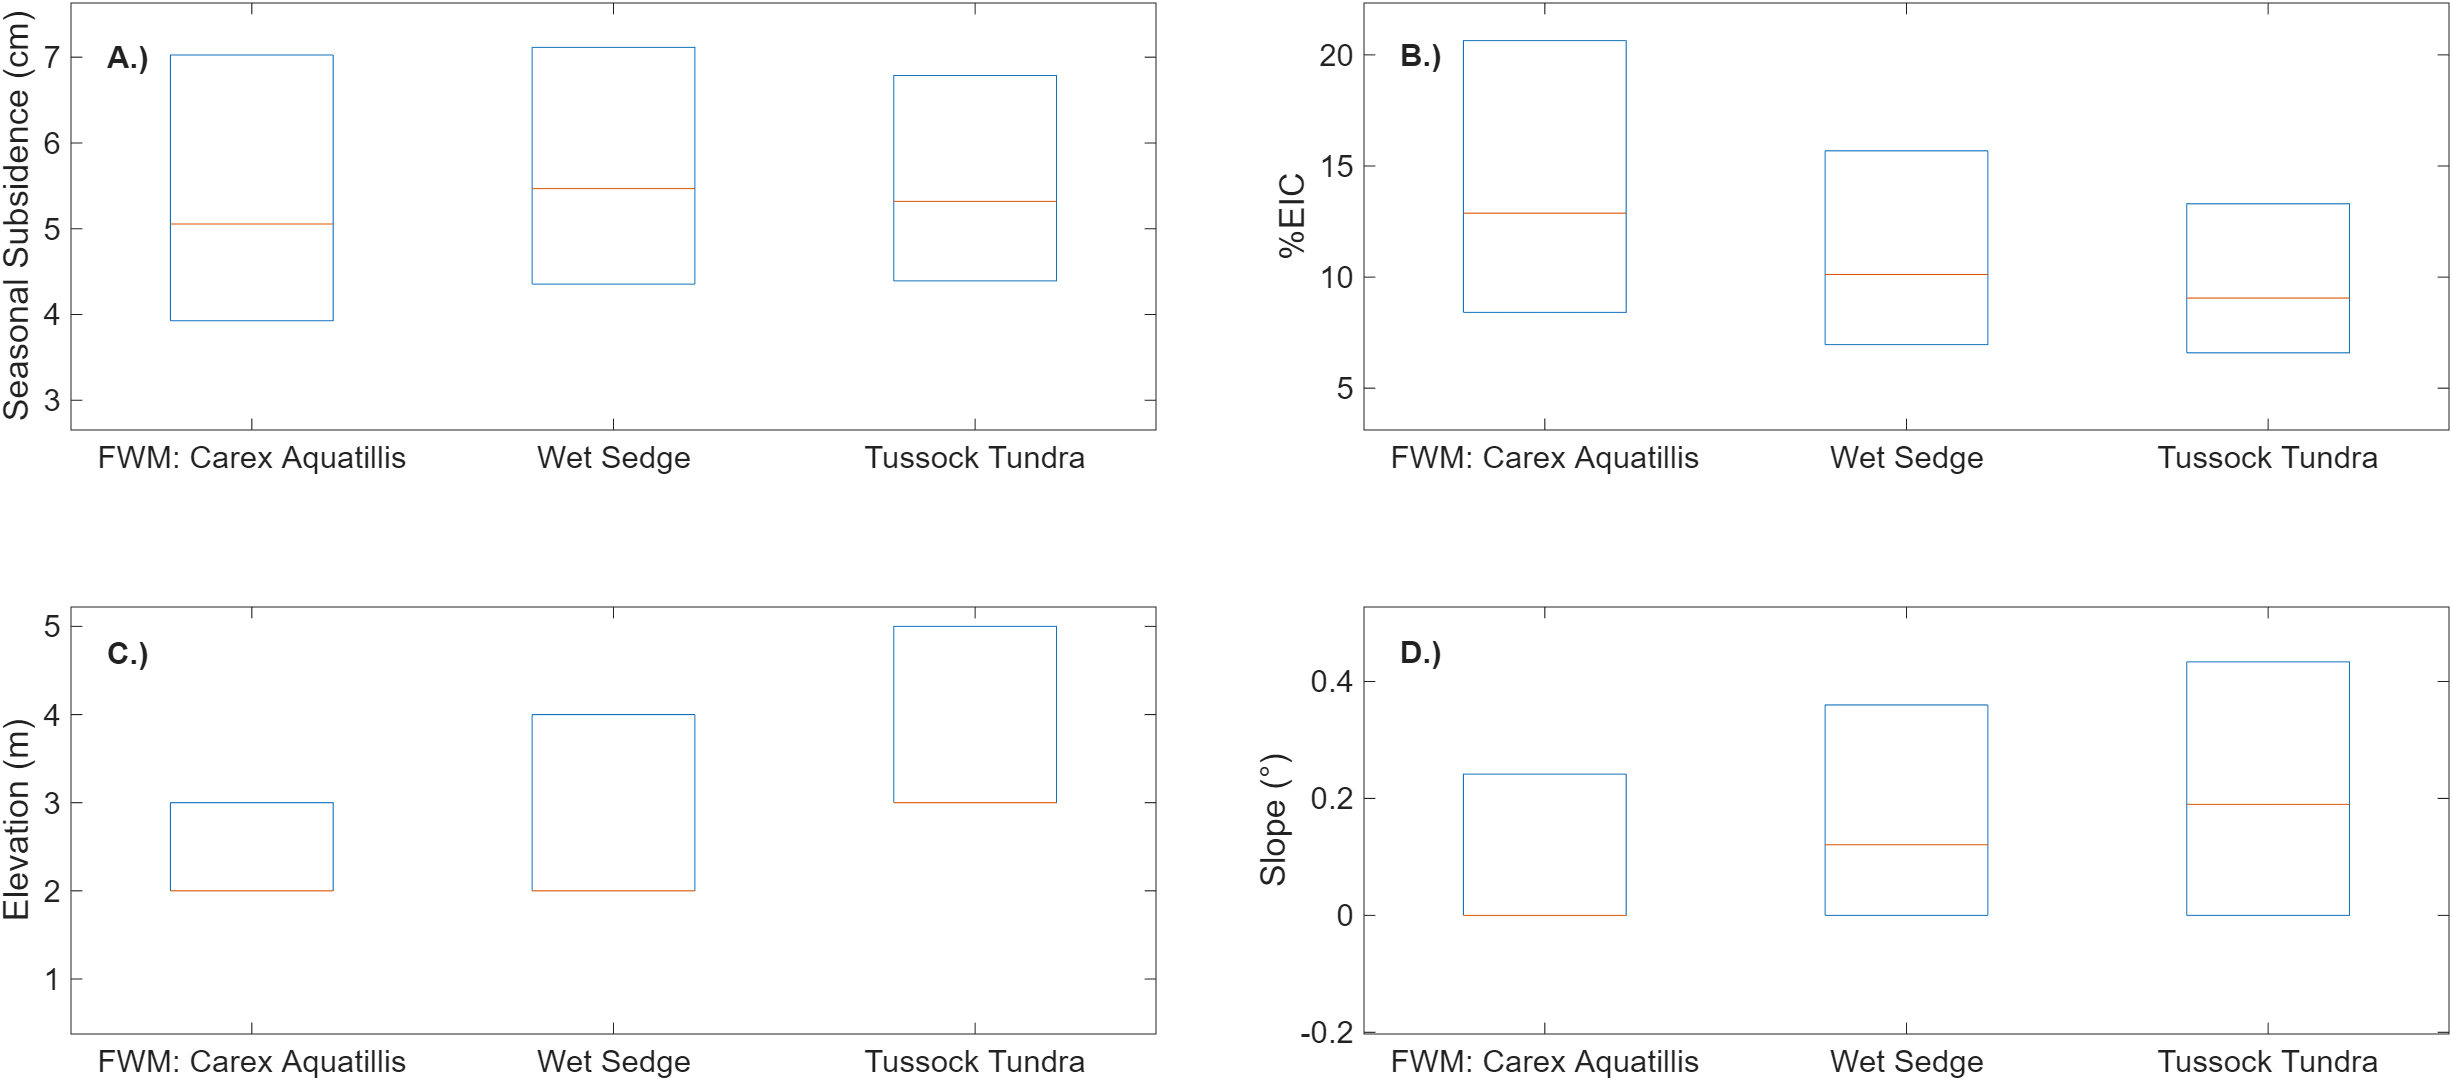
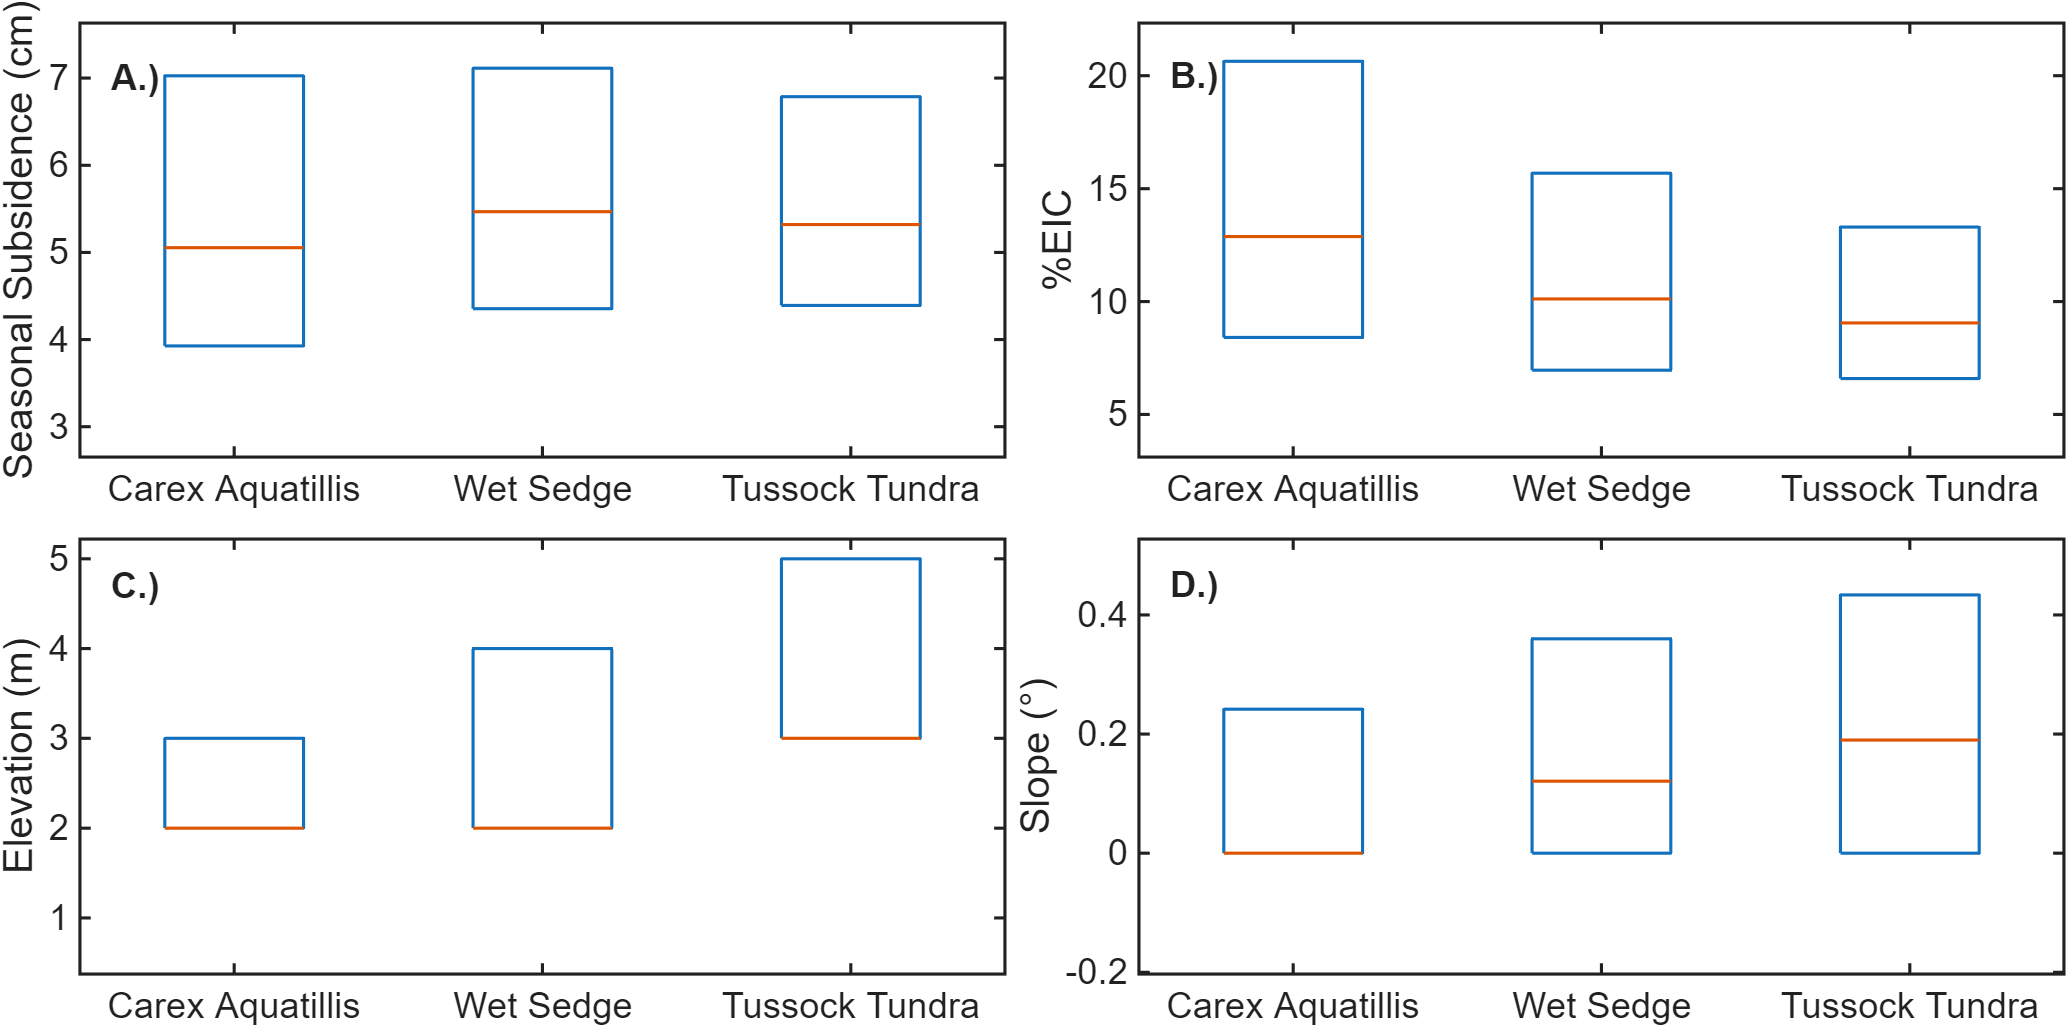
Update LandCover figure
Increase font size, boxplot linewidth, and axes linewidth.

diff --git a/main_processing/summary_results/zonal_stats.m b/main_processing/summary_results/zonal_stats.m
@@ -24,21 +24,21 @@ EIC_data = EIC_data(:, [1 2 2 3 4 4 5]);
 DEM_data = DEM_data(:, [1 2 2 3 4 4 5]);
 slope_data = slope_data(:, [1 2 2 3 4 4 5]);
 
-labels = {'FWM: Carex Aquatillis', 'Wet Sedge', 'Tussock Tundra'}';
+labels = {'Carex Aquatillis', 'Wet Sedge', 'Tussock Tundra'}';
 
 %%
 
 boxfig = figure;
-tiledlayout(2,2)
+tiledlayout(2,2,"TileSpacing","tight")
 nexttile
 boxplot(E_data.', 'Whisker', inf);
 xticks(1:numel(labels))
 xticklabels(labels)
 ylabel('Seasonal Subsidence (cm)')
 ax = gca;
-ax.FontSize = 15;
+ax.FontSize = 17.5;
 ylim([0, 25])
-text(0.6, 23, 'A.)','FontSize',15,'FontWeight','bold')
+text(0.6, 23, 'A.)','FontSize',17.5,'FontWeight','bold')
 
 nexttile
 boxplot(EIC_data.', 'Whisker', inf);
@@ -46,9 +46,9 @@ xticks(1:numel(labels))
 xticklabels(labels)
 ylabel('%EIC')
 ax = gca;
-ax.FontSize = 15;
+ax.FontSize = 17.5;
 ylim([0, 130])
-text(0.6, 120, 'B.)','FontSize',15,'FontWeight','bold')
+text(0.6, 120, 'B.)','FontSize',17.5,'FontWeight','bold')
 
 nexttile
 boxplot(DEM_data.', 'Whisker', inf);
@@ -56,9 +56,9 @@ xticks(1:numel(labels))
 xticklabels(labels)
 ylabel('Elevation (m)')
 ax = gca;
-ax.FontSize = 15;
+ax.FontSize = 17.5;
 ylim([0, 15])
-text(0.6, 14, 'C.)','FontSize',15,'FontWeight','bold')
+text(0.6, 14, 'C.)','FontSize',17.5,'FontWeight','bold')
 
 nexttile
 boxplot(slope_data.', 'Whisker', inf);
@@ -66,8 +66,8 @@ xticks(1:numel(labels))
 xticklabels(labels)
 ylabel(['Slope (',char(176),')'])
 ax = gca;
-ax.FontSize = 15;
-text(0.6, 6.5, 'D.)','FontSize',15,'FontWeight','bold')
+ax.FontSize = 17.5;
+text(0.6, 6.5, 'D.)','FontSize',17.5,'FontWeight','bold')
 
 %%
 
@@ -93,15 +93,19 @@ DEM_data = DEM_data(:, [1 1 2 3 3 ]);
 slope_data = slope_data(:, [1 1 2 3 3 ]);
 
 boxfig2 = figure;
-tiledlayout(2,2)
+tiledlayout(2,2,'TileSpacing','compact')
 nexttile
 boxplot(E_data.', 'Whisker', 0);
 xticks(1:numel(labels))
 xticklabels(labels)
 ylabel('Seasonal Subsidence (cm)')
 ax = gca;
-ax.FontSize = 15;
-text(0.6, 7, 'A.)','FontSize',15,'FontWeight','bold')
+ax.FontSize = 17.5;
+ax.LineWidth = 1.5;
+text(0.6, 7, 'A.)','FontSize',17.5,'FontWeight','bold')
+
+bx1 = findobj(gca,'Tag','boxplot');
+set(bx1.Children,'LineWidth',1.5)
 
 nexttile
 boxplot(EIC_data.', 'Whisker', 0);
@@ -109,8 +113,12 @@ xticks(1:numel(labels))
 xticklabels(labels)
 ylabel('%EIC')
 ax = gca;
-ax.FontSize = 15;
-text(0.6, 20, 'B.)','FontSize',15,'FontWeight','bold')
+ax.FontSize = 17.5;
+ax.LineWidth = 1.5;
+text(0.6, 20, 'B.)','FontSize',17.5,'FontWeight','bold')
+
+bx1 = findobj(gca,'Tag','boxplot');
+set(bx1.Children,'LineWidth',1.5)
 
 nexttile
 boxplot(DEM_data.', 'Whisker', 0);
@@ -118,8 +126,12 @@ xticks(1:numel(labels))
 xticklabels(labels)
 ylabel('Elevation (m)')
 ax = gca;
-ax.FontSize = 15;
-text(0.6, 4.7, 'C.)','FontSize',15,'FontWeight','bold')
+ax.FontSize = 17.5;
+ax.LineWidth = 1.5;
+text(0.6, 4.7, 'C.)','FontSize',17.5,'FontWeight','bold')
+
+bx1 = findobj(gca,'Tag','boxplot');
+set(bx1.Children,'LineWidth',1.5)
 
 nexttile
 boxplot(slope_data.', 'Whisker', 0);
@@ -127,5 +139,9 @@ xticks(1:numel(labels))
 xticklabels(labels)
 ylabel(['Slope (',char(176),')'])
 ax = gca;
-ax.FontSize = 15;
-text(0.6, 0.45, 'D.)','FontSize',15,'FontWeight','bold')
+ax.FontSize = 17.5;
+ax.LineWidth = 1.5;
+text(0.6, 0.45, 'D.)','FontSize',17.5,'FontWeight','bold')
+
+bx1 = findobj(gca,'Tag','boxplot');
+set(bx1.Children,'LineWidth',1.5)
